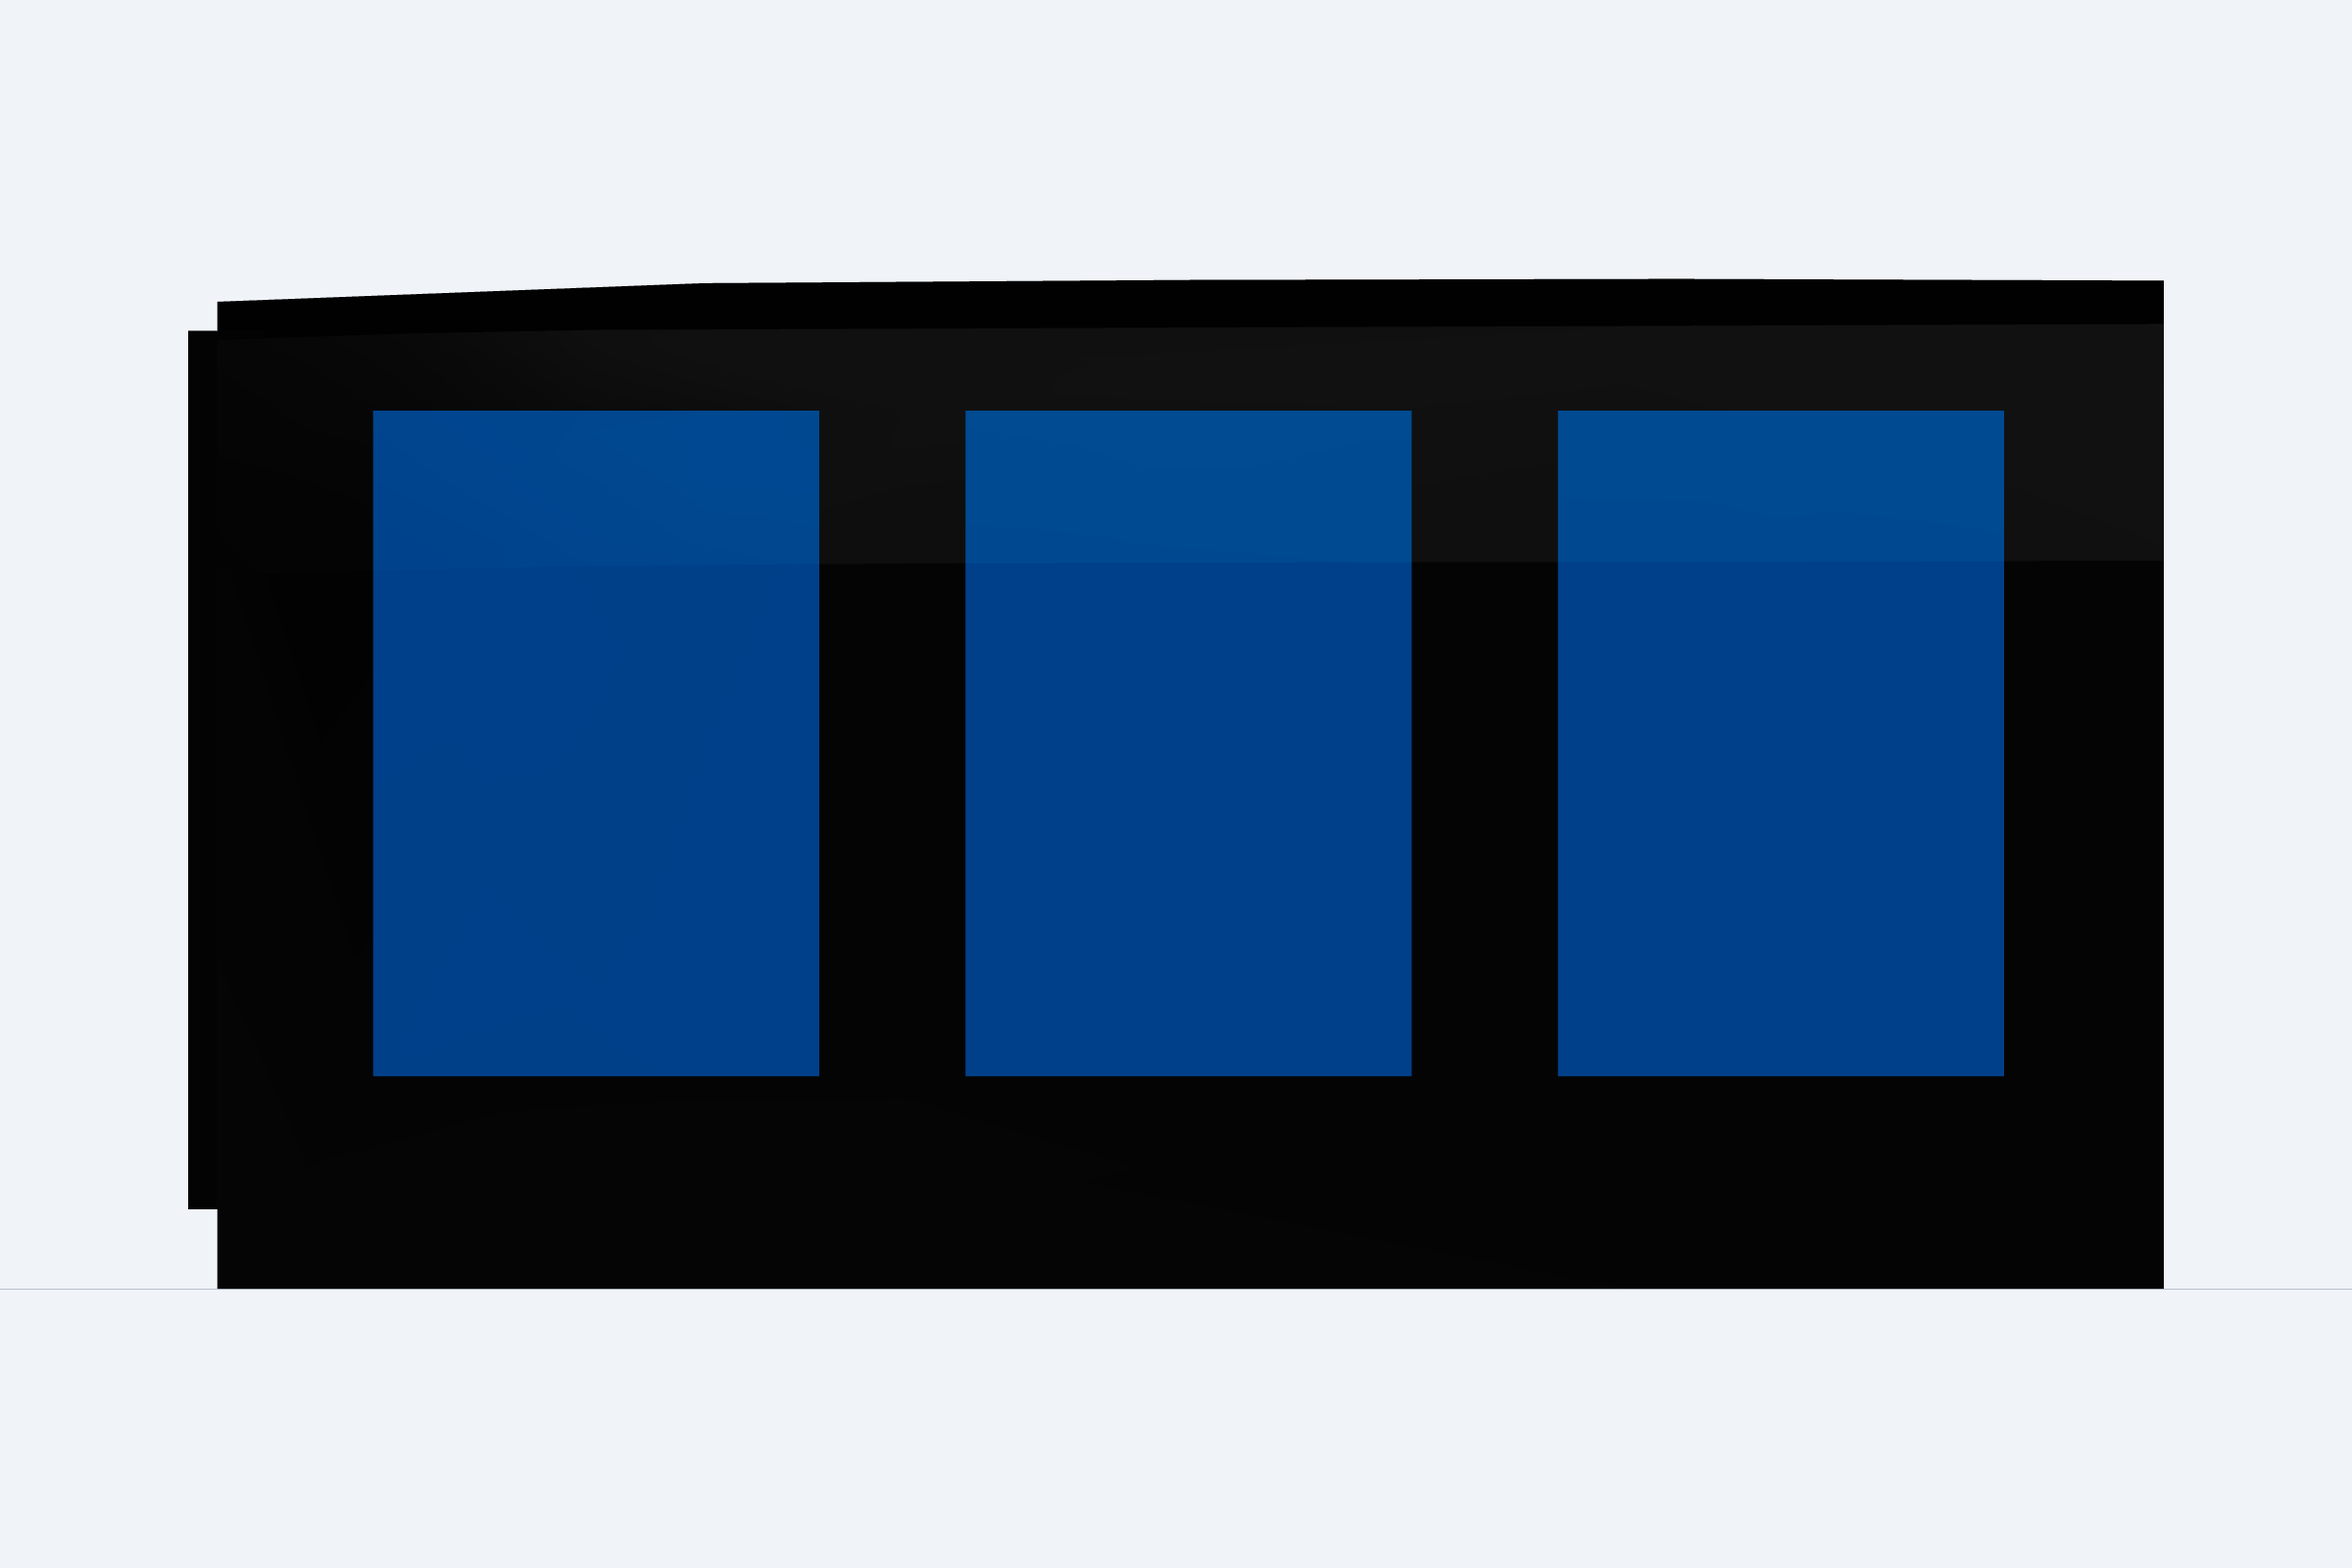
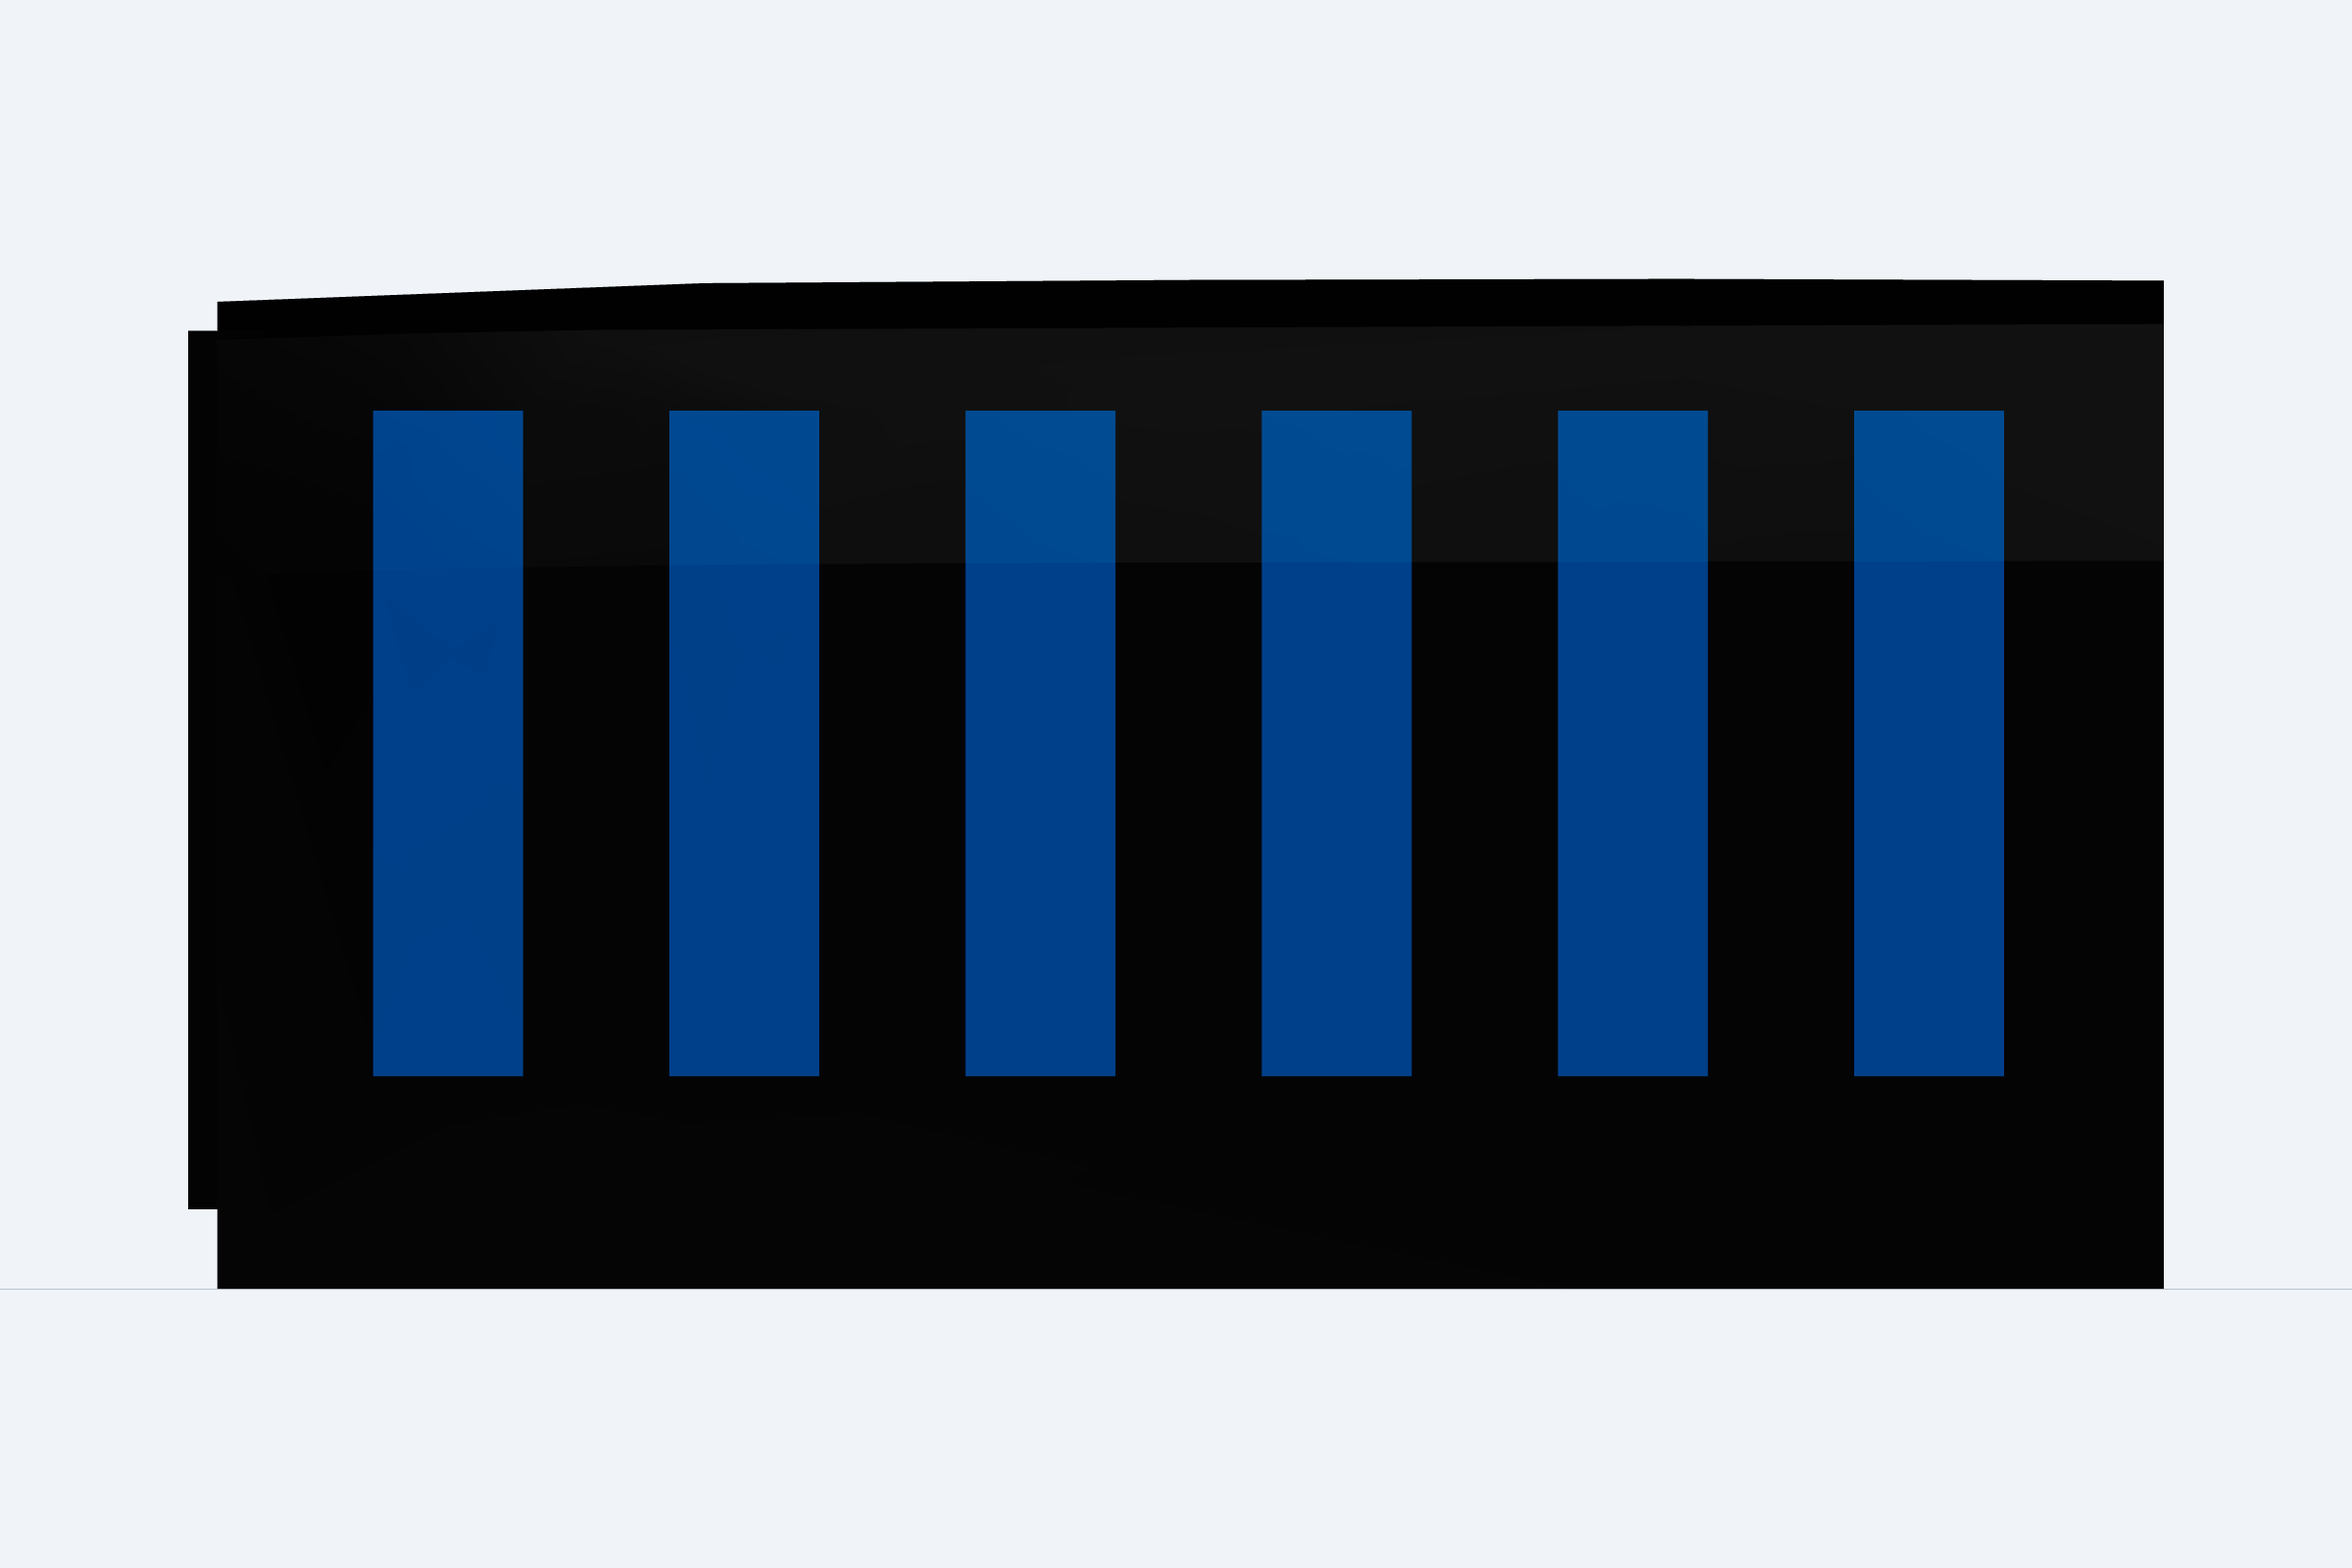
Fix Step 15 glazing pane count

Changed region(s): [[0.7188, 0.25, 0.8125, 0.6875], [0.4688, 0.25, 0.5625, 0.6875], [0.2188, 0.25, 0.3125, 0.6875]]

diff --git a/models/r1t_topper/cad/step15_checks.py b/models/r1t_topper/cad/step15_checks.py
@@ -12,6 +12,7 @@ from visual_review_step15 import (
     SIDE_WINDOW_X_RANGES,
     SIDE_WINDOW_Z_RANGE,
     STRUCTURAL_MULLION_WIDTH,
+    _side_window_selector,
     gen_step,
     make_continuous_carbon_shell,
     make_curved_side_glazing,
@@ -31,31 +32,64 @@ def run() -> None:
     }
     assert "00_REFERENCE" not in labels
     assert all(
-        not any(token in label for token in ("TOOL", "KEEP_OUT", "DATUM", "LOAD_PATH", "MOTION"))
+        not any(
+            token in label
+            for token in (
+                "00_REFERENCE",
+                "TOOL",
+                "KEEP_OUT",
+                "DATUM",
+                "LOAD_PATH",
+                "MOTION",
+                "PORT",
+                "CROSSBAR",
+                "PROTRUSION",
+            )
+        )
         for label in labels
     )
 
     shell = make_continuous_carbon_shell()
     assert shell.volume > 0.0
+    assert len(shell.solids()) == 1
     assert shell.bounding_box().size.X > 1400.0
 
     panes = make_curved_side_glazing().children
-    assert len(panes) == 6
+    assert len(SIDE_WINDOW_X_RANGES) == 6
+    assert len(panes) == 12
     assert all(pane.volume > 0.0 for pane in panes)
     assert all(pane.bounding_box().size.Y > 20.0 for pane in panes)
     assert all(pane.bounding_box().max.Z >= SIDE_WINDOW_Z_RANGE[1] - 15.0 for pane in panes)
-    assert all(
-        right[0] - left[1] >= STRUCTURAL_MULLION_WIDTH
-        for left, right in zip(SIDE_WINDOW_X_RANGES, SIDE_WINDOW_X_RANGES[1:])
-    )
+    for side, sign in (("DRIVER", 1.0), ("PASSENGER", -1.0)):
+        side_panes = [
+            pane
+            for pane in panes
+            if pane.label.startswith(f"CURVED_SIDE_GLAZING_{side}_")
+        ]
+        assert len(side_panes) == 6
+        assert {pane.label for pane in side_panes} == {
+            f"CURVED_SIDE_GLAZING_{side}_{index}_PRESENTATION_ONLY"
+            for index in range(1, 7)
+        }
+        assert all(pane.volume > 0.0 for pane in side_panes)
+        for left, right in zip(SIDE_WINDOW_X_RANGES, SIDE_WINDOW_X_RANGES[1:]):
+            gap_x_range = (left[1], right[0])
+            assert gap_x_range[1] - gap_x_range[0] == STRUCTURAL_MULLION_WIDTH
+            assert gap_x_range[1] - gap_x_range[0] >= 76.0
+            assert (shell & _side_window_selector(*gap_x_range, sign)).volume > 0.0
     assert SIDE_WINDOW_Z_RANGE[1] - SIDE_WINDOW_Z_RANGE[0] >= 450.0
 
     rear_panes = make_rear_hatch_glazing().children
     assert len(rear_panes) == 1
     assert rear_panes[0].volume > 0.0
+    assert rear_panes[0].label == "SINGLE_REAR_HATCH_GLAZING_PRESENTATION_ONLY"
     assert rear_panes[0].bounding_box().size.Y == REAR_WINDOW_Y_RANGE[1] - REAR_WINDOW_Y_RANGE[0]
     assert rear_panes[0].bounding_box().size.Z == REAR_WINDOW_Z_RANGE[1] - REAR_WINDOW_Z_RANGE[0]
-    assert make_visual_review_hatch_leaf().volume < make_closed_hatch_leaf().volume
+    assert rear_panes[0].bounding_box().center().Y == 0.0
+    hatch_leaf = make_visual_review_hatch_leaf()
+    assert hatch_leaf.label == "SINGLE_REAR_HATCH_LEAF_WITH_ONE_OPENING_PRESENTATION_ONLY"
+    assert len(hatch_leaf.solids()) == 1
+    assert hatch_leaf.volume < make_closed_hatch_leaf().volume
 
     review_dir = Path(__file__).resolve().parents[1] / "outputs/review/step15"
     manifest = json.loads((review_dir / "manifest.json").read_text())

diff --git a/models/r1t_topper/cad/visual_review_step15.py b/models/r1t_topper/cad/visual_review_step15.py
@@ -35,8 +35,16 @@ CARBON_EDGE_COLOR = Color(0.08, 0.10, 0.13, 1.0)
 GLAZING_COLOR = Color(0.08, 0.38, 0.56, 0.92)
 HATCH_CARBON_COLOR = Color(0.14, 0.17, 0.20, 1.0)
 
-# Three windows per side, with 110 mm structural mullions (> 3 in / 76 mm).
-SIDE_WINDOW_X_RANGES = ((120.0, 455.0), (565.0, 900.0), (1010.0, 1345.0))
+# Six windows per side, each pair separated by a 110 mm structural mullion
+# (> 3 in / 76 mm).  The six bays retain the prior outer opening extents.
+SIDE_WINDOW_X_RANGES = (
+    (120.0, 232.5),
+    (342.5, 455.0),
+    (565.0, 677.5),
+    (787.5, 900.0),
+    (1010.0, 1122.5),
+    (1232.5, 1345.0),
+)
 SIDE_WINDOW_Z_RANGE = (160.0, 660.0)
 STRUCTURAL_MULLION_WIDTH = 110.0
 SIDE_CUT_DEPTH = 320.0

diff --git a/models/r1t_topper/reports/STEP15_OPERATOR_VISUAL_REPORT.md b/models/r1t_topper/reports/STEP15_OPERATOR_VISUAL_REPORT.md
@@ -5,9 +5,9 @@ Step 11 geometry at commit `6e0229cecefee0043aed9ea607c5241c1fe7f815`.
 
 The visible exterior is one continuous five-station lofted shell with the
 R1S-like near-level roofline and curved shoulder edges retained. Each side has
-three shell-conformal glazing bays separated by 110 mm structural carbon
-mullions. The rear is one clean hatch leaf over one shell opening with one
-centered pane; no split leaf, duplicate leaf, center mullion, or top-center
+six shell-conformal glazing bays (twelve total) separated by five 110 mm
+structural carbon mullions. The rear is one clean hatch leaf over one shell
+opening with one centered pane; no split leaf, duplicate leaf, center mullion, or top-center
 protrusion is included. The `00_REFERENCE` truck dummy, top accessory-port
 blocks, and engineering
 keep-outs are excluded from the review assembly.

diff --git a/models/r1t_topper/README.md b/models/r1t_topper/README.md
@@ -9,10 +9,10 @@ first-order structural screening. It is not calibrated fitment, a structural
 rating, or fabrication release.
 
 Step 15 adds an exterior-only operator_visual derivative under
-`outputs/review/step15/`: one continuous R1S-like shell, shell-conformal
-glazing with 110 mm carbon mullions, and one single-leaf rear hatch with one
-centered pane. It hides `00_REFERENCE` and engineering keep-outs and does not
-replace the authoritative Step 11 geometry.
+`outputs/review/step15/`: one continuous R1S-like shell, twelve shell-conformal
+glazing panes (six per side) with 110 mm carbon mullions, and one single-leaf
+rear hatch with one centered pane. It hides `00_REFERENCE` and engineering
+keep-outs and does not replace the authoritative Step 11 geometry.
 
 ## Regenerate
 
